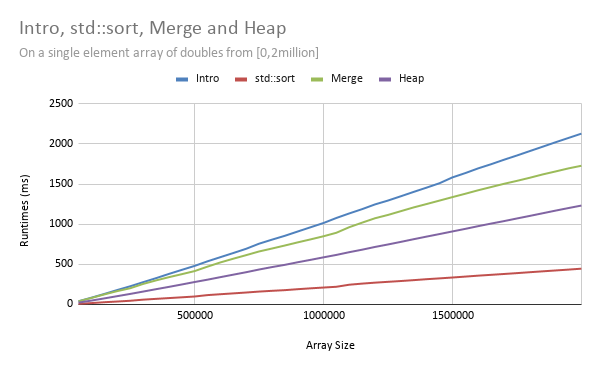
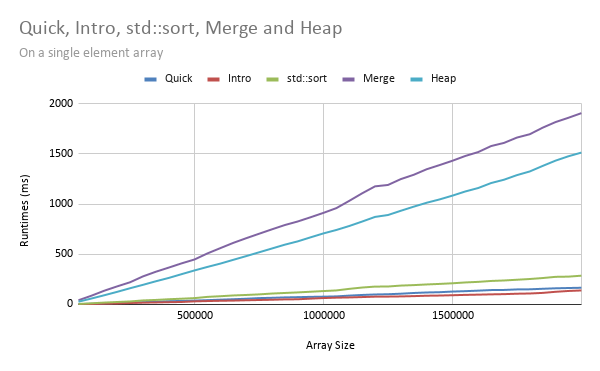
Now outperforms std::sort in all 4 cases

diff --git a/cpp/main.cpp b/cpp/main.cpp
@@ -84,7 +84,7 @@ int main() {
     for(int i = begin; i <= s; i += step) {
         double quickTime = 0, introTime = 0, stdTime = 0, mergeTime = 0, heapTime = 0;
         for(int x = 0; x < 20; x++) {
-            vector<double> res = makeReverseArray(i);
+            vector<double> res = makeSortedArray(i);
             
             long millis = getTime();
             quickSort(res, 0, i-1);
@@ -94,7 +94,7 @@ int main() {
             if(!isSorted(res))
                 return 1;
             
-            res = makeReverseArray(i);
+            res = makeSortedArray(i);
 
             millis = getTime();
             introSort(res, 0, i-1);
@@ -104,14 +104,14 @@ int main() {
             if(!isSorted(res))
                 return 1;
 
-            res = makeReverseArray(i);
+            res = makeSortedArray(i);
 
             millis = getTime();
             sort(res.begin(), res.end());
             millis2 = getTime();
             stdTime += millis2 - millis;
             
-            res = makeReverseArray(i);
+            res = makeSortedArray(i);
             
             millis = getTime();
             mergeSort(res, 0, i-1);
@@ -121,7 +121,7 @@ int main() {
             if(!isSorted(res))
                 return 1;
 
-            res = makeReverseArray(i);
+            res = makeSortedArray(i);
             
             millis = getTime();
             make_heap(res.begin(), res.end());
@@ -132,7 +132,7 @@ int main() {
             if(!isSorted(res))
                 return 1;
             
-            /*
+            /* Uncomment this section to run insertion, selection, and bubble sort
             res = makeRandArray(i);
             
             millis = getTime();

diff --git a/README.md b/README.md
@@ -40,13 +40,15 @@ The results of the tests are saved in a file called `data.csv` and a python scri
 
   **Initial 3-way partition method on a reverse sorted array:**
 
-  ![Reverse Sorted Array with 3-way partition](images/reverse3way.png)
+  ![Reverse Sorted Array with 3-way partition](images/reversev2.png)
 
   **Revised 3-way partition method on a reverse sorted array:**
+  
+  ![Revised Reverse](images/reversev3.png)
 
-## (Current) Results
+## Results
 
-On a sorted and randomized array, my implementation of Introsort outperforms (albeit slightly) std::sort() and Quick sort.
+My implementation of Introsort was improved solely through modifications to the Quicksort portion of the algorithm. The Insertion sort and Heap sort portions remained the same throughout the testing phase. Initially, I started with a naïve pivot selection method of choosing the last element. That evolved to the median of 3 method. In addition, I started with the standard 2-way partitioning method. Further testing revealed that this partitioning method suffers against data with many duplicates. As a result, I switched to the 3-way partitioning method, aka the Dutch National Flag algorithm. With these modifications, my final iteration of Introsort outperforms std::sort() in all four testcases.
 
 **Random:**
 
@@ -56,13 +58,9 @@ On a sorted and randomized array, my implementation of Introsort outperforms (al
 
 ![Sorted](images/sorted.png)
 
-
-
-However, on a reverse sorted and single number array, my implementation of Introsort suffers.
-
 **Reverse:**
 
-![Reverse](images/reverse.png)
+![Reverse](images/reversev3.png)
 
 **Constant:**
 
